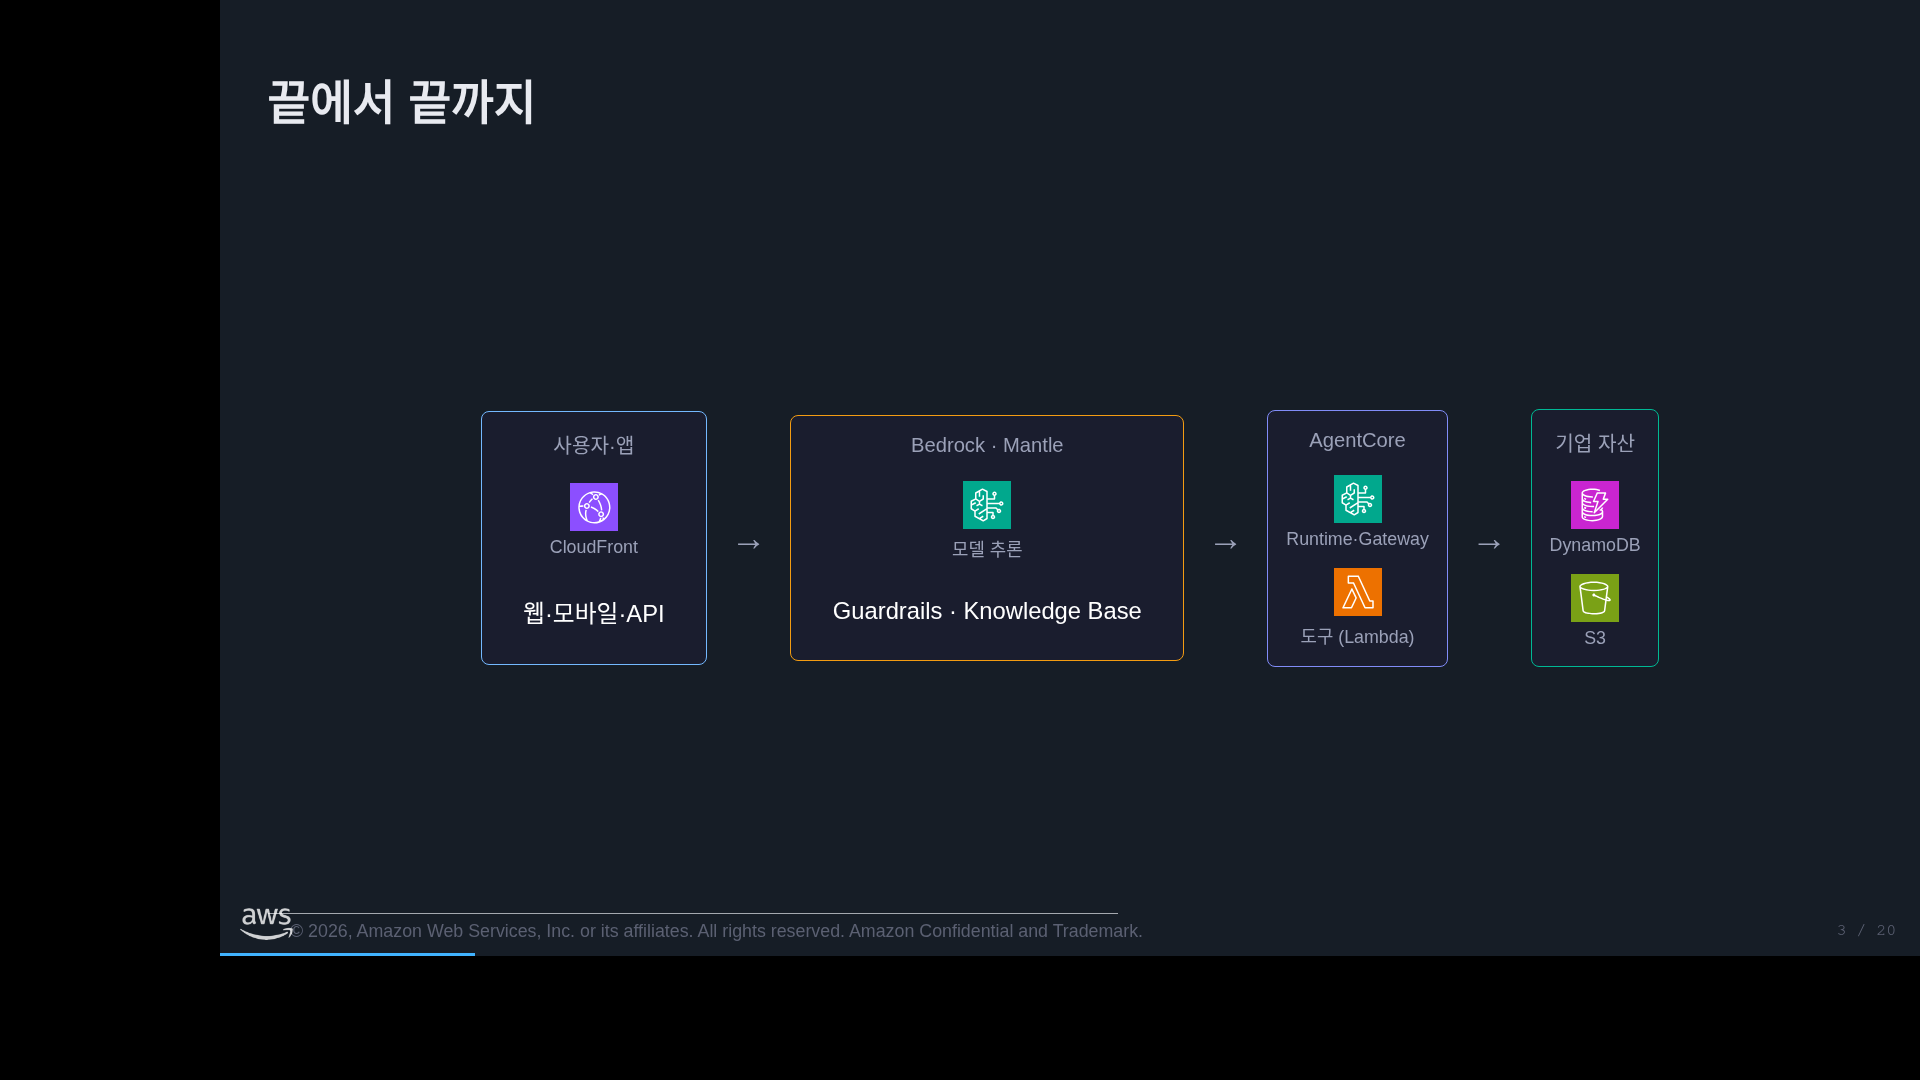
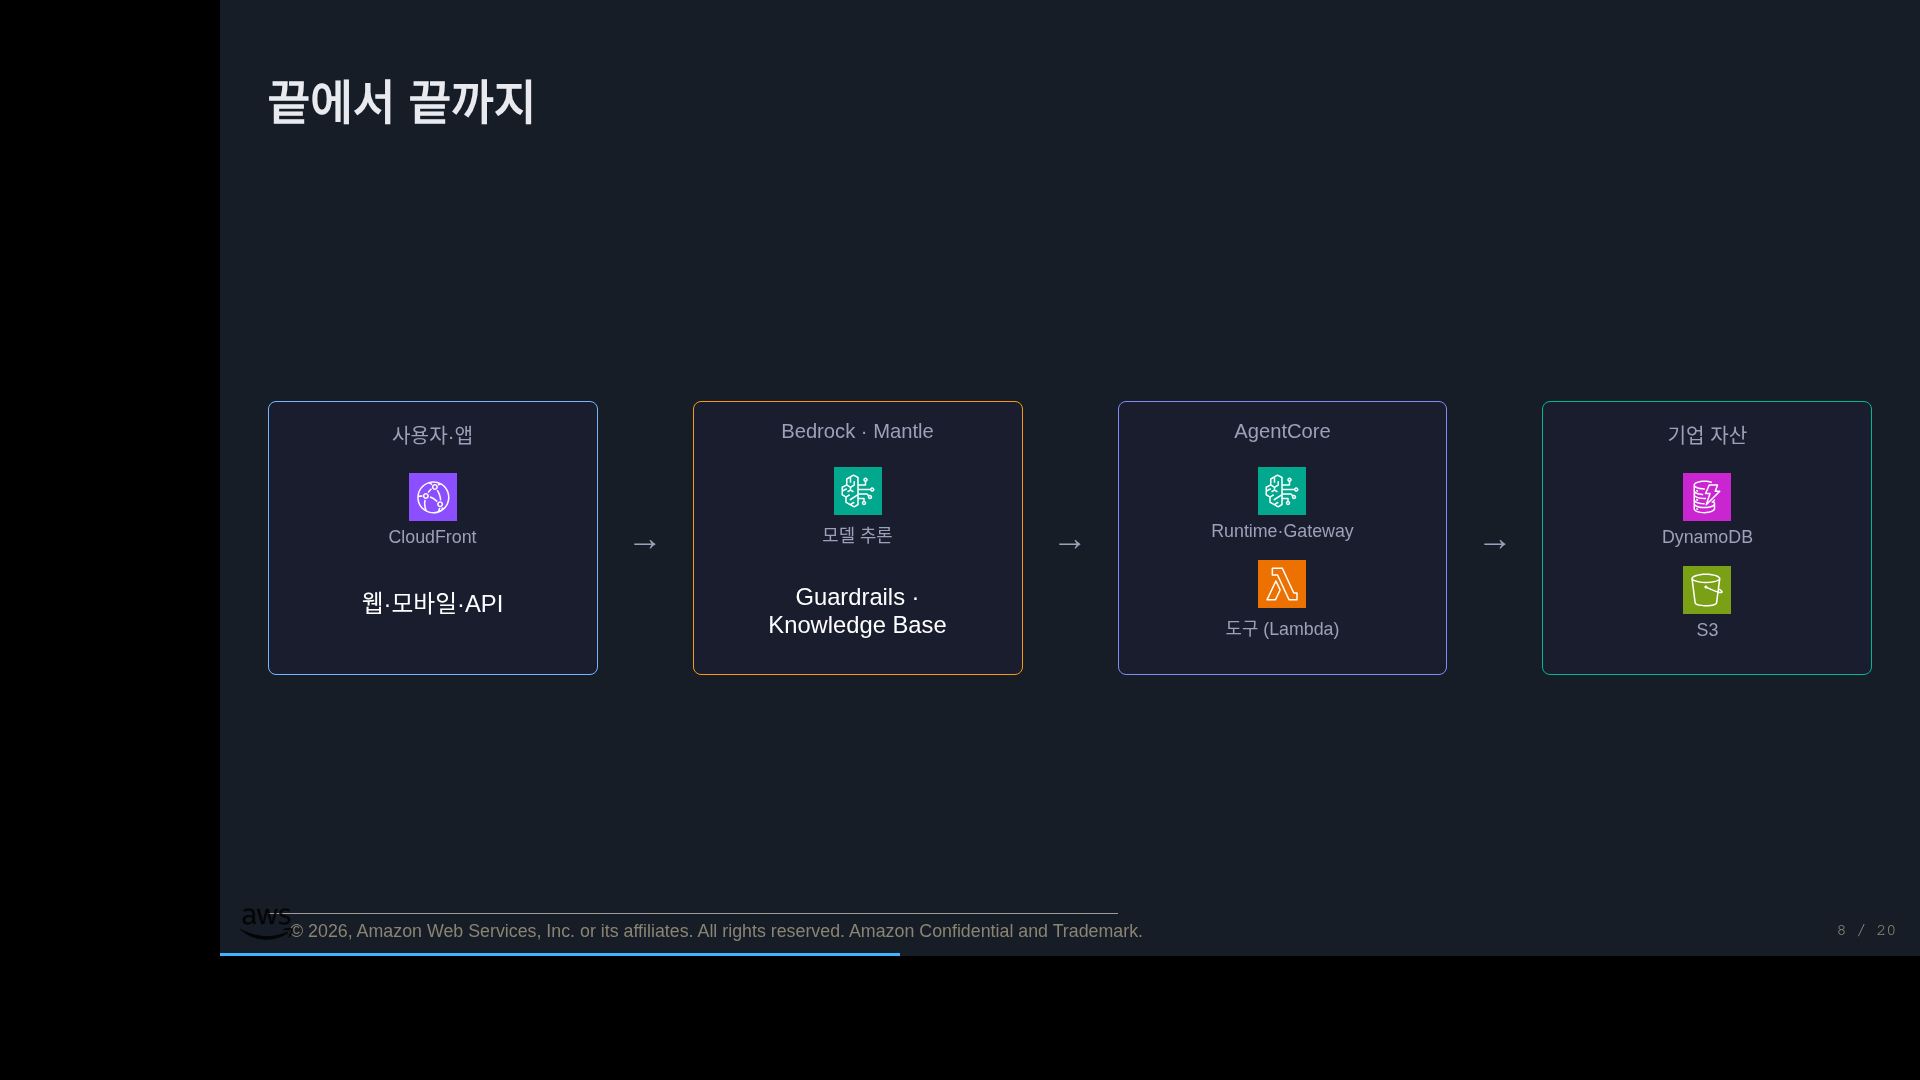
style(reactive-presentation): equalize flow-group sizing + wide distribution
Flow stages (.flow-h > .flow-group) sized to their own content, so stages with
different box counts (e.g. 2/3/2) had uneven heights — immediately obvious — and
bunched in the center. Make flow stages visually balanced:
- .flow-h: align-items stretch (equal heights) + margin:auto 0 (size to the tallest
  stage, centered vertically) instead of flex:1 (which stretched stages to fill the
  whole slide, leaving large empty bottoms).
- .flow-group: flex:1 1 0 → equal widths, spread wide across the row.
- .flow-box: width:100% + border-box → uniform box width across stages.
- .flow-arrow: justify-content center → stays centered between equal-height stages.

Pure layout (theme-agnostic): improves both the light Mantle flow and the dark
reference-architecture (4 stages now equal-size/aligned). Verified at 1920×1080
(stages identical w/h, labels aligned, wide+centered). Tests 290/290.

diff --git a/docs/static/demos/aiops-deep-dive/common/theme.css b/docs/static/demos/aiops-deep-dive/common/theme.css
@@ -1423,10 +1423,10 @@ input[type="range"]::-webkit-slider-thumb {
 /* --- Flow Containers --- */
 .flow-h {
   display: flex;
-  align-items: center;
+  align-items: stretch;   /* all flow-groups share the tallest one's height */
   justify-content: center;
-  gap: 1rem;
-  flex: 1;
+  gap: 1.25rem;
+  margin: auto 0;         /* size to the tallest group, centered vertically in the slide */
 }
 .flow-v {
   display: flex;
@@ -1450,6 +1450,7 @@ input[type="range"]::-webkit-slider-thumb {
   display: flex;
   flex-direction: column;
   align-items: center;
+  justify-content: center;  /* stay vertically centered between equal-height groups */
   flex-shrink: 0;
 }
 .flow-arrow .arrow-label {
@@ -1464,6 +1465,8 @@ input[type="range"]::-webkit-slider-thumb {
   font-weight: 500;
   text-align: center;
   min-width: 120px;
+  width: 100%;             /* fill the group → uniform box width across stages */
+  box-sizing: border-box;
 }
 
 /* --- Icon + Label component --- */
@@ -1525,6 +1528,7 @@ input[type="range"]::-webkit-slider-thumb {
   gap: 0.75rem;
   padding: 1rem;
   border-radius: 8px;
+  flex: 1 1 0;            /* equal width, spread evenly across the row */
 }
 .flow-group .flow-group-label {
   font-size: 0.85rem;

diff --git a/docs/static/demos/bedrock-first-calldeck/common/theme.css b/docs/static/demos/bedrock-first-calldeck/common/theme.css
@@ -1423,10 +1423,10 @@ input[type="range"]::-webkit-slider-thumb {
 /* --- Flow Containers --- */
 .flow-h {
   display: flex;
-  align-items: center;
+  align-items: stretch;   /* all flow-groups share the tallest one's height */
   justify-content: center;
-  gap: 1rem;
-  flex: 1;
+  gap: 1.25rem;
+  margin: auto 0;         /* size to the tallest group, centered vertically in the slide */
 }
 .flow-v {
   display: flex;
@@ -1450,6 +1450,7 @@ input[type="range"]::-webkit-slider-thumb {
   display: flex;
   flex-direction: column;
   align-items: center;
+  justify-content: center;  /* stay vertically centered between equal-height groups */
   flex-shrink: 0;
 }
 .flow-arrow .arrow-label {
@@ -1464,6 +1465,8 @@ input[type="range"]::-webkit-slider-thumb {
   font-weight: 500;
   text-align: center;
   min-width: 120px;
+  width: 100%;             /* fill the group → uniform box width across stages */
+  box-sizing: border-box;
 }
 
 /* --- Icon + Label component --- */
@@ -1525,6 +1528,7 @@ input[type="range"]::-webkit-slider-thumb {
   gap: 0.75rem;
   padding: 1rem;
   border-radius: 8px;
+  flex: 1 1 0;            /* equal width, spread evenly across the row */
 }
 .flow-group .flow-group-label {
   font-size: 0.85rem;

diff --git a/docs/static/demos/canvas-animation/common/theme.css b/docs/static/demos/canvas-animation/common/theme.css
@@ -1423,10 +1423,10 @@ input[type="range"]::-webkit-slider-thumb {
 /* --- Flow Containers --- */
 .flow-h {
   display: flex;
-  align-items: center;
+  align-items: stretch;   /* all flow-groups share the tallest one's height */
   justify-content: center;
-  gap: 1rem;
-  flex: 1;
+  gap: 1.25rem;
+  margin: auto 0;         /* size to the tallest group, centered vertically in the slide */
 }
 .flow-v {
   display: flex;
@@ -1450,6 +1450,7 @@ input[type="range"]::-webkit-slider-thumb {
   display: flex;
   flex-direction: column;
   align-items: center;
+  justify-content: center;  /* stay vertically centered between equal-height groups */
   flex-shrink: 0;
 }
 .flow-arrow .arrow-label {
@@ -1464,6 +1465,8 @@ input[type="range"]::-webkit-slider-thumb {
   font-weight: 500;
   text-align: center;
   min-width: 120px;
+  width: 100%;             /* fill the group → uniform box width across stages */
+  box-sizing: border-box;
 }
 
 /* --- Icon + Label component --- */
@@ -1525,6 +1528,7 @@ input[type="range"]::-webkit-slider-thumb {
   gap: 0.75rem;
   padding: 1rem;
   border-radius: 8px;
+  flex: 1 1 0;            /* equal width, spread evenly across the row */
 }
 .flow-group .flow-group-label {
   font-size: 0.85rem;

diff --git a/docs/static/demos/compare-tabs/common/theme.css b/docs/static/demos/compare-tabs/common/theme.css
@@ -1423,10 +1423,10 @@ input[type="range"]::-webkit-slider-thumb {
 /* --- Flow Containers --- */
 .flow-h {
   display: flex;
-  align-items: center;
+  align-items: stretch;   /* all flow-groups share the tallest one's height */
   justify-content: center;
-  gap: 1rem;
-  flex: 1;
+  gap: 1.25rem;
+  margin: auto 0;         /* size to the tallest group, centered vertically in the slide */
 }
 .flow-v {
   display: flex;
@@ -1450,6 +1450,7 @@ input[type="range"]::-webkit-slider-thumb {
   display: flex;
   flex-direction: column;
   align-items: center;
+  justify-content: center;  /* stay vertically centered between equal-height groups */
   flex-shrink: 0;
 }
 .flow-arrow .arrow-label {
@@ -1464,6 +1465,8 @@ input[type="range"]::-webkit-slider-thumb {
   font-weight: 500;
   text-align: center;
   min-width: 120px;
+  width: 100%;             /* fill the group → uniform box width across stages */
+  box-sizing: border-box;
 }
 
 /* --- Icon + Label component --- */
@@ -1525,6 +1528,7 @@ input[type="range"]::-webkit-slider-thumb {
   gap: 0.75rem;
   padding: 1rem;
   border-radius: 8px;
+  flex: 1 1 0;            /* equal width, spread evenly across the row */
 }
 .flow-group .flow-group-label {
   font-size: 0.85rem;

diff --git a/docs/static/demos/quiz-slides/common/theme.css b/docs/static/demos/quiz-slides/common/theme.css
@@ -1423,10 +1423,10 @@ input[type="range"]::-webkit-slider-thumb {
 /* --- Flow Containers --- */
 .flow-h {
   display: flex;
-  align-items: center;
+  align-items: stretch;   /* all flow-groups share the tallest one's height */
   justify-content: center;
-  gap: 1rem;
-  flex: 1;
+  gap: 1.25rem;
+  margin: auto 0;         /* size to the tallest group, centered vertically in the slide */
 }
 .flow-v {
   display: flex;
@@ -1450,6 +1450,7 @@ input[type="range"]::-webkit-slider-thumb {
   display: flex;
   flex-direction: column;
   align-items: center;
+  justify-content: center;  /* stay vertically centered between equal-height groups */
   flex-shrink: 0;
 }
 .flow-arrow .arrow-label {
@@ -1464,6 +1465,8 @@ input[type="range"]::-webkit-slider-thumb {
   font-weight: 500;
   text-align: center;
   min-width: 120px;
+  width: 100%;             /* fill the group → uniform box width across stages */
+  box-sizing: border-box;
 }
 
 /* --- Icon + Label component --- */
@@ -1525,6 +1528,7 @@ input[type="range"]::-webkit-slider-thumb {
   gap: 0.75rem;
   padding: 1rem;
   border-radius: 8px;
+  flex: 1 1 0;            /* equal width, spread evenly across the row */
 }
 .flow-group .flow-group-label {
   font-size: 0.85rem;

diff --git a/docs/static/demos/remarp-source/common/theme.css b/docs/static/demos/remarp-source/common/theme.css
@@ -1423,10 +1423,10 @@ input[type="range"]::-webkit-slider-thumb {
 /* --- Flow Containers --- */
 .flow-h {
   display: flex;
-  align-items: center;
+  align-items: stretch;   /* all flow-groups share the tallest one's height */
   justify-content: center;
-  gap: 1rem;
-  flex: 1;
+  gap: 1.25rem;
+  margin: auto 0;         /* size to the tallest group, centered vertically in the slide */
 }
 .flow-v {
   display: flex;
@@ -1450,6 +1450,7 @@ input[type="range"]::-webkit-slider-thumb {
   display: flex;
   flex-direction: column;
   align-items: center;
+  justify-content: center;  /* stay vertically centered between equal-height groups */
   flex-shrink: 0;
 }
 .flow-arrow .arrow-label {
@@ -1464,6 +1465,8 @@ input[type="range"]::-webkit-slider-thumb {
   font-weight: 500;
   text-align: center;
   min-width: 120px;
+  width: 100%;             /* fill the group → uniform box width across stages */
+  box-sizing: border-box;
 }
 
 /* --- Icon + Label component --- */
@@ -1525,6 +1528,7 @@ input[type="range"]::-webkit-slider-thumb {
   gap: 0.75rem;
   padding: 1rem;
   border-radius: 8px;
+  flex: 1 1 0;            /* equal width, spread evenly across the row */
 }
 .flow-group .flow-group-label {
   font-size: 0.85rem;

diff --git a/plugins/aws-content-plugin/skills/reactive-presentation/assets/theme.css b/plugins/aws-content-plugin/skills/reactive-presentation/assets/theme.css
@@ -1423,10 +1423,10 @@ input[type="range"]::-webkit-slider-thumb {
 /* --- Flow Containers --- */
 .flow-h {
   display: flex;
-  align-items: center;
+  align-items: stretch;   /* all flow-groups share the tallest one's height */
   justify-content: center;
-  gap: 1rem;
-  flex: 1;
+  gap: 1.25rem;
+  margin: auto 0;         /* size to the tallest group, centered vertically in the slide */
 }
 .flow-v {
   display: flex;
@@ -1450,6 +1450,7 @@ input[type="range"]::-webkit-slider-thumb {
   display: flex;
   flex-direction: column;
   align-items: center;
+  justify-content: center;  /* stay vertically centered between equal-height groups */
   flex-shrink: 0;
 }
 .flow-arrow .arrow-label {
@@ -1464,6 +1465,8 @@ input[type="range"]::-webkit-slider-thumb {
   font-weight: 500;
   text-align: center;
   min-width: 120px;
+  width: 100%;             /* fill the group → uniform box width across stages */
+  box-sizing: border-box;
 }
 
 /* --- Icon + Label component --- */
@@ -1525,6 +1528,7 @@ input[type="range"]::-webkit-slider-thumb {
   gap: 0.75rem;
   padding: 1rem;
   border-radius: 8px;
+  flex: 1 1 0;            /* equal width, spread evenly across the row */
 }
 .flow-group .flow-group-label {
   font-size: 0.85rem;
